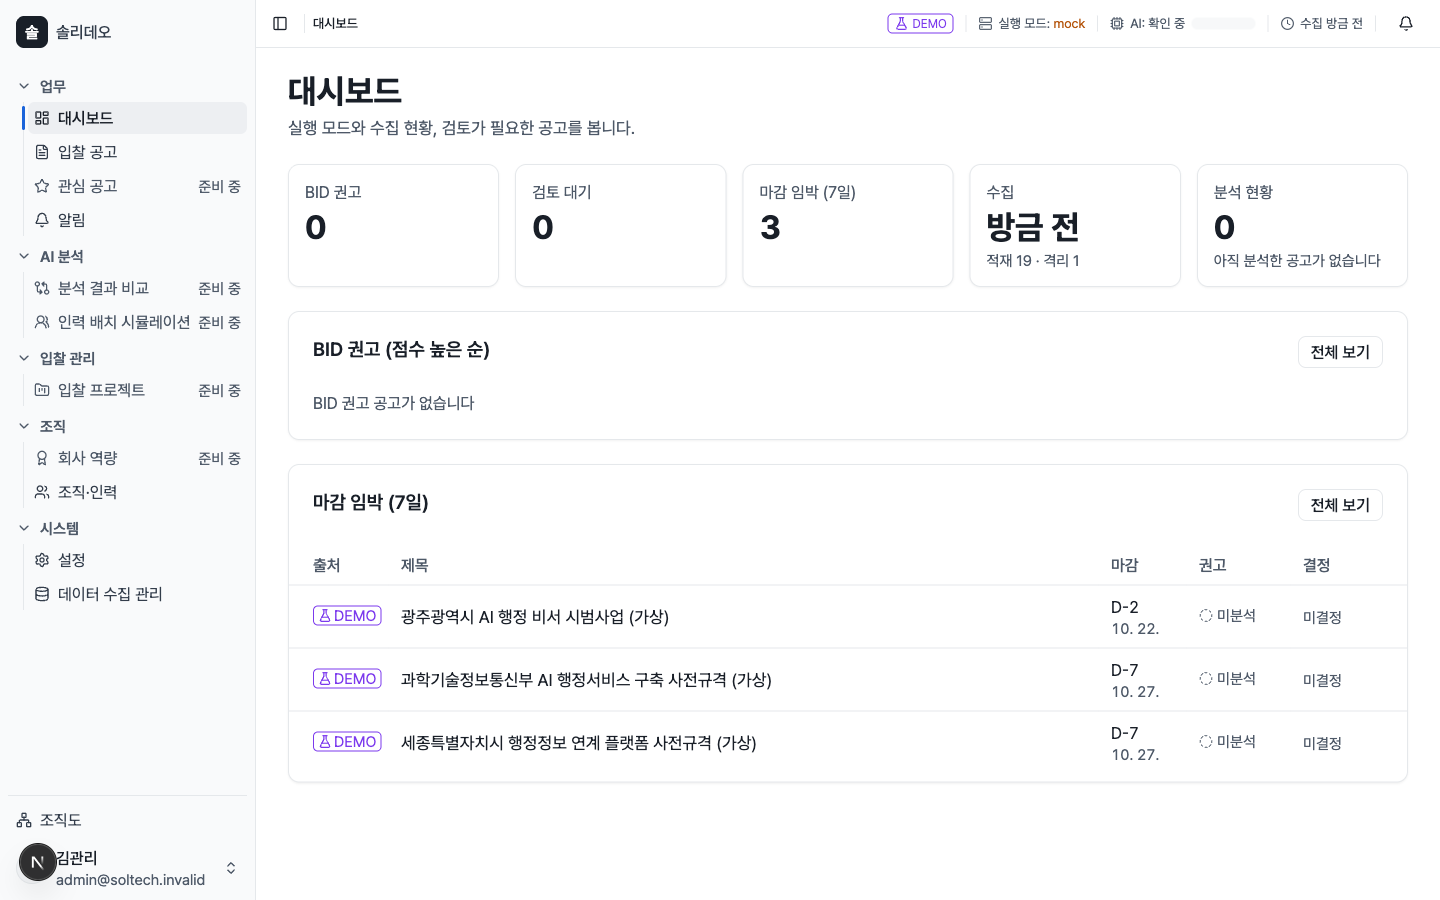
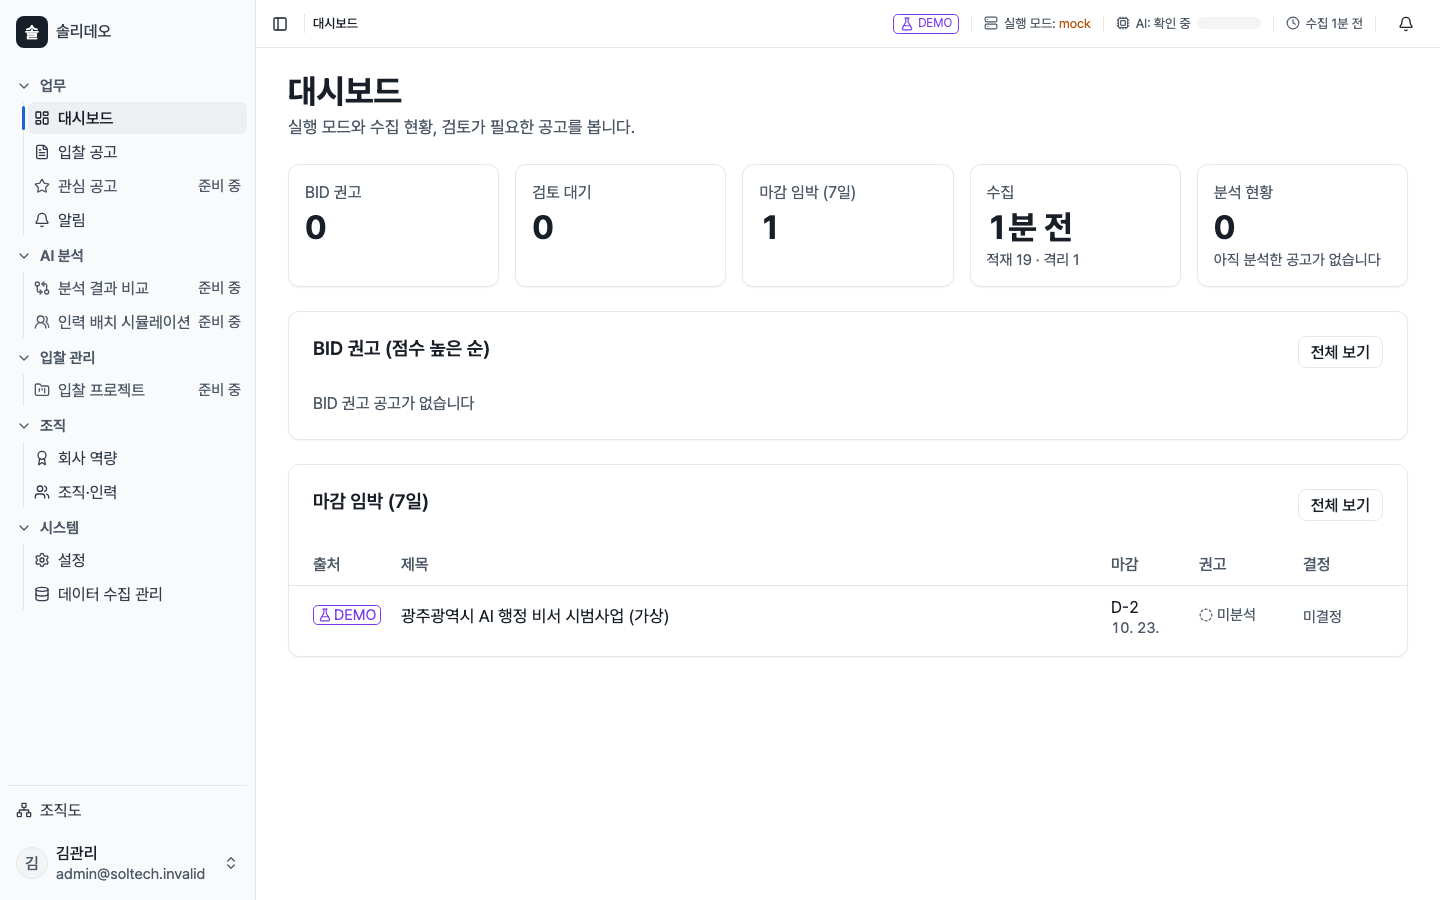
docs: N1 사이드바 증거 스크린샷 다시 촬영
main 5628c35 에서 격리 Supabase + next dev 로 7장을 다시 찍었다.
회사 역량 출시(준비 중 4개)와 9c 사용자 칸 줄바꿈이 반영됐고,
촬영 직전마다 Next 개발 표시(nextjs-portal)를 숨겼다.
새 장: 회사 역량(admin 1440), 대시보드(viewer 1440).

diff --git a/docs/evidence/phase-3/n1-sidebar-tree/README.md b/docs/evidence/phase-3/n1-sidebar-tree/README.md
@@ -5,18 +5,18 @@ tags:
   - sol-radar
   - test
   - ui
-updated: 2026-10-20
+updated: 2026-10-21
 ---
 
 # N1 사이드바 트리 검증
 
-브랜치 `feat/sidebar-tree`(worktree `sol-radar-worktrees/sidebar-tree`, base main `9048995`). 설계는 [[06-UI-UX|06 UI]] §4·§4.1과 [사이드바 설계](../../../plans/2026-10-16-sidebar-ia-design.md) §2.1·§8(2026-10-20 행)이다.
+브랜치 `feat/sidebar-tree`(worktree `sol-radar-worktrees/sidebar-tree`, base main `9048995`) → 기준점 `ca1bcab`(main `e92e4a6` 병합) → main 병합 `9e6d8e2`. 스크린샷은 main `5628c35` 에서 다시 찍었다(브랜치 `docs/n1-sidebar-shots`, 2026-10-21). 설계는 [[06-UI-UX|06 UI]] §4·§4.1과 [사이드바 설계](../../../plans/2026-10-16-sidebar-ia-design.md) §2.1·§8(2026-10-20 행)이다.
 
 ## 무엇을 만들었나
 
 - 메뉴 정의 한 곳(`web/components/app-nav.ts`): 묶음 5개(업무·AI 분석·입찰 관리·조직·시스템), 메뉴 11개 + 맨 아래 고정 칸 조직도. 메뉴마다 `released`/`planned`.
 - 준비 중(`planned`) 메뉴 5개(관심 공고·분석 결과 비교·인력 배치 시뮬레이션·입찰 프로젝트·회사 역량)는 링크 없이 "준비 중"으로 보인다(사용자 결정 2026-10-20). 경로는 페이지가 없어 404 그대로다.
-- main `e92e4a6`(회사 역량 `/company` 포함)을 합친 뒤 회사 역량을 `released` 로 바꿨다. 준비 중은 4개(관심 공고·분석 결과 비교·인력 배치 시뮬레이션·입찰 프로젝트)다. 아래 스크린샷은 그 전(준비 중 5개)에 찍었다.
+- main `e92e4a6`(회사 역량 `/company` 포함)을 합친 뒤 회사 역량을 `released` 로 바꿨다. 준비 중은 4개(관심 공고·분석 결과 비교·인력 배치 시뮬레이션·입찰 프로젝트)다.
 - 데이터 수집 관리는 업무 역할 ADMIN 에게만 보인다. 세 레이아웃(`(work)`·`people-read`·`[slug]`)이 `sol_role` 을 틀에 넘긴다.
 - 묶음 줄 접기(`aria-expanded`·`aria-controls`), 접힘 상태는 `localStorage` 에만 저장(실패해도 정상), 지금 화면의 묶음은 들어올 때 펼침.
 - 활성 메뉴: `sidebar-accent` 바탕 + 트리 세로선 자리 3px `brand` 막대 + `aria-current="page"`.
@@ -34,27 +34,32 @@ updated: 2026-10-20
 | 변형 확인: 아이콘 줄 사용자 칸 가운데 정렬 제거 | 1건 실패로 잡힘 |
 | `pnpm -C web verify:quick` | exit 0, 210 파일 · 6,743 시험, lodestar·토큰·색 검사 통과 |
 | `pnpm verify`(루트, 빌드 포함) | exit 0. 루트 729 · web 6,743 · `next build` 성공 |
-| `pnpm -C web test:browser` | 32 파일 · 447 passed. 첫 실행에서 `people/person-drawer.browser.test.tsx` 초점 복귀 1건이 시간 초과로 실패했고(이번 변경과 무관한 파일, 다른 세션 검증과 동시 실행 중), 단독 3회·전체 재실행 모두 통과 |
+| 기준점 `ca1bcab`(main `e92e4a6` 병합 트리) | `pnpm verify` exit 0 — 루트 729 · web 6,785 · `next build` 성공. `test:browser` 33 파일 · 472 passed |
+| 3e 게이트(main 병합 `9e6d8e2`) | `test:browser` 471/472. 실패 1건은 `person-drawer` 부하 흔들림, 단독 3회 통과(3e 기록) |
+| `pnpm -C web test:browser`(첫 브랜치 `2272ddc`) | 32 파일 · 447 passed. 첫 실행에서 `people/person-drawer.browser.test.tsx` 초점 복귀 1건이 시간 초과로 실패했고(이번 변경과 무관한 파일, 다른 세션 검증과 동시 실행 중), 단독 3회·전체 재실행 모두 통과 |
 
 ## 실제 앱 확인
 
-격리 Supabase(scratchpad 사본, API 59731) + `pnpm demo:reset -- --env-file`(seed: orgs=2 users=5 people=200 bids=19 quarantined=1) + worktree `next dev -p 3014`. 확인 뒤 dev 서버·격리 스택·볼륨을 지웠다. 공용 54321 은 쓰지 않았다.
+main `5628c35`(회사 역량 `/company`·9c 사용자 칸 줄바꿈 포함)을 2026-10-21 에 찍었다. 격리 Supabase(scratchpad 사본 `sol-radar-sidebar14`, API 59731, 마이그레이션 `20261019000019` 까지) + `pnpm demo:reset -- --env-file <격리 env>`(seed: orgs=2 users=5 people=200 bids=19 quarantined=1) + worktree `next dev -p 3014`(공개 Supabase 키와 로컬 임시 `API_CURSOR_SECRET` 만 넘김). 공용 54321·클라우드는 쓰지 않았다. 확인 뒤 dev 서버·격리 스택·볼륨·env 사본을 지웠다.
+
+촬영은 worktree 의 `@playwright/test` Chromium 으로 돌린 저장소 밖 일회용 스크립트다. **촬영 직전마다 Next 개발 표시(`nextjs-portal` 요소)를 `display: none` 으로 숨겼다.** 개발 서버에만 있는 표시라 제품 화면이 아니고, 지난 촬영에서 사용자 칸을 덮었다.
 
 | 파일 | 계정·폭 | 본 것 |
 |---|---|---|
-| `app-dashboard-admin-1440.png` | admin · 1440 | 묶음 5개, 준비 중 5개, 데이터 수집 관리 보임, 대시보드 활성 |
+| `app-dashboard-admin-1440.png` | admin · 1440 | 묶음 5개, 준비 중 4개, 회사 역량·데이터 수집 관리 링크, 대시보드 활성, 사용자 칸 이메일 전체 |
+| `app-company-admin-1440.png` | admin · 1440 | 사이드바에서 회사 역량을 눌러 `/company`, 조직 묶음의 회사 역량 활성 |
 | `app-ingestion-admin-1280.png` | admin · 1280 | 가장 긴 줄 "인력 배치 시뮬레이션 준비 중" 말줄임 없음, 가로 넘침 없음 |
-| `app-icon-rail-1280.png` | admin · 1280 | 64px 아이콘 줄, 묶음 사이 선, "입찰 공고" 툴팁, 위 막대에 조직 이름 |
-| `app-groups-collapsed-1280.png` | admin · 1280 | AI 분석·입찰 관리를 접고 새로고침 → 접힘 유지, 지금 화면 묶음(시스템)은 접었어도 펼침 |
-| `app-settings-viewer-1280.png` | viewer · 1280 | 데이터 수집 관리 숨김, `/org-01/settings` 에서 설정 활성 |
+| `app-icon-rail-1280.png` | admin · 1280 | 64px 아이콘 줄, 묶음 사이 선, "입찰 공고" 툴팁, 사용자 칸 가운데, 위 막대에 조직 이름 |
+| `app-groups-collapsed-1280.png` | admin · 1280 | AI 분석·입찰 관리·시스템을 접고 새로고침 → 앞의 둘은 접힘 유지, 지금 화면 묶음(시스템)은 펼침 |
+| `app-dashboard-viewer-1440.png` | viewer · 1440 | 데이터 수집 관리 숨김, 나머지 메뉴는 ADMIN 과 같음 |
+| `app-settings-viewer-1280.png` | viewer · 1280 | `/settings` → `/org-01/settings`, 설정 활성 |
 
-브라우저 콘솔 오류는 `/health/ready` 503 뿐이다(AI gateway 를 띄우지 않음). 하이드레이션 오류 없음. 화면 왼쪽 아래 "N" 동그라미는 Next 개발 도구 버튼이다.
+브라우저 콘솔 오류는 11건 모두 `/health/ready` 503 이다(AI gateway 를 띄우지 않음, dev 서버 로그로 경로 확인). 하이드레이션 오류 없음.
 
 ## 남은 것
 
-- 정본 반영(e8 담당): [[16-DECISIONS|16]] ADR-021 M22 개정(준비 중 메뉴 노출), [[06-UI-UX|06]] §4·§4.1 노출 문장과 64px 접힘 구현 상태, [[11-TESTING|11]] §9 NAV-10.
+- 정본 반영(45 담당, e8 후임): [[16-DECISIONS|16]] ADR-021 M22 개정(준비 중 메뉴 노출), [[06-UI-UX|06]] §4·§4.1 노출 문장과 64px 접힘 구현 상태, [[11-TESTING|11]] §9 NAV-10.
 - 로그인 E2E(`test:e2e:auth`·`test:e2e:work`)는 돌리지 않았다(격리 Supabase 로 실제 화면만 확인).
-- 같은 `app-shell.tsx` 의 `UserMenu` 를 worktree `sidebar-user-height`(다른 세션, 미커밋)도 고친다. 나중에 병합하는 쪽이 main 을 합쳐 두 변경을 모두 남기고 `test:browser` 를 다시 돌린다(3e 합의).
 - N1 의 나머지(조직 주소 없는 경로 정리·`/ops` 분리)는 이번 범위 밖이다.
 
 ## 관련 문서
